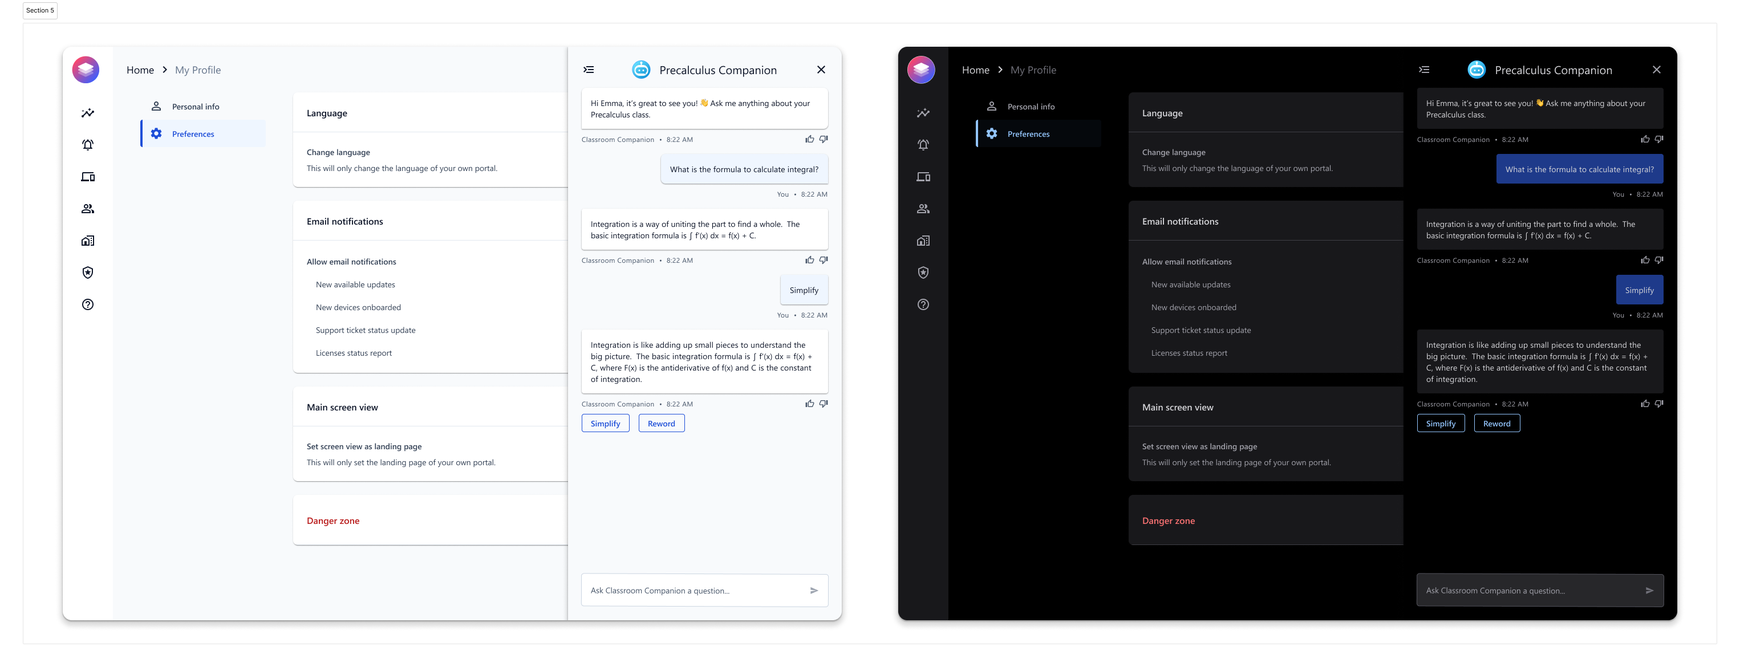
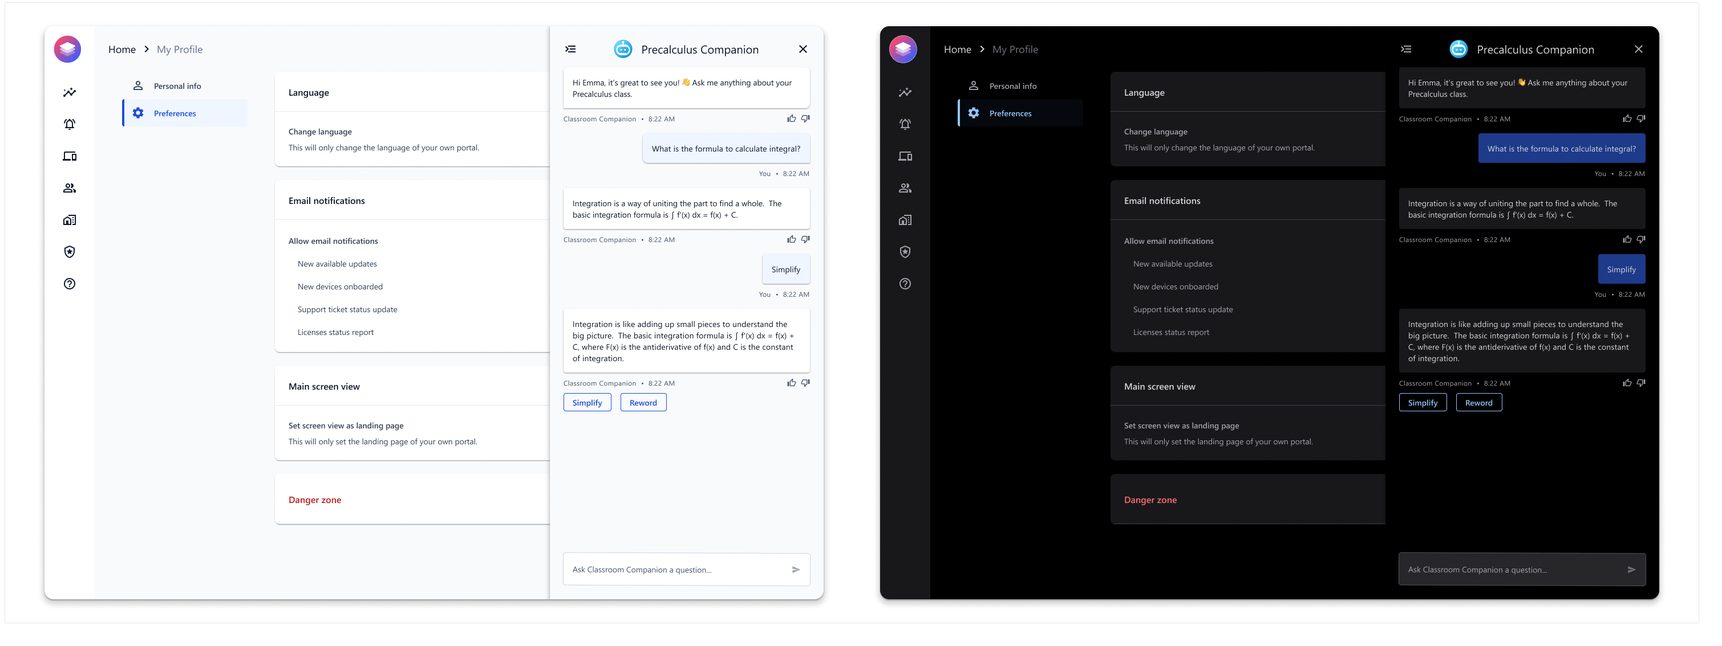
added misc projects

diff --git a/other-projects.html b/other-projects.html
@@ -38,6 +38,7 @@
                 Jump to...
             </button>
             <div class="dropdown-menu dropdown-menu-right">
+                <a class="dropdown-item btn-sm" href="#drassomai">Drassomai</a>
                 <a class="dropdown-item btn-sm" href="#certik">Blockchain analysis</a>
                 <a class="dropdown-item btn-sm" href="#mtlaw">Immigration law</a>
                 <a class="dropdown-item btn-sm" href="#broad">Biomedical research</a>
@@ -48,111 +49,143 @@
         <br>
         <div id="containerfull">
 
+            <a id="drassomai">
+                <div style="padding:5px"></div>
+            </a>
+            <p class="text-5">A personal project, <span style="color:#ec008c">Drassomai</span>.</p><br>
+            <p class="text-1">[March 2024]</p>
+            <div> 
+                <p class="text-3">More info to come soon! Some first visuals:</p>
+                <div data-aos="fade-up" data-aos-offset="20" data-aos-delay="50" data-aos-duration="2000" style="height: auto; position: relative; margin-left: auto; margin-right: auto; margin-top: 10px; margin-bottom: 10px">
+                    <center>
+                        <figure style="margin:0">
+                            <a href="images/misc/d-1.png" target="_blank"><img src="/images/misc/d-1.png" alt="Image could not be loaded." style="width:24%; margin-bottom:0px"></a>
+                            <a href="images/misc/d-2.png" target="_blank"><img src="/images/misc/d-2.png" alt="Image could not be loaded." style="width:24%; margin-bottom:0px"></a>
+                            <a href="images/misc/d-3.png" target="_blank"><img src="/images/misc/d-3.png" alt="Image could not be loaded." style="width:24%; margin-bottom:0px"></a>
+                            <a href="images/misc/d-4.png" target="_blank"><img src="/images/misc/d-4.png" alt="Image could not be loaded." style="width:24%; margin-bottom:0px"></a>
+                            <a href="images/misc/d-5.png" target="_blank"><img src="/images/misc/d-5.png" alt="Image could not be loaded." style="width:24%; margin-bottom:5px"></a>
+                            <a href="images/misc/d-6.png" target="_blank"><img src="/images/misc/d-6.png" alt="Image could not be loaded." style="width:24%; margin-bottom:5px"></a>
+                            <a href="images/misc/d-7.png" target="_blank"><img src="/images/misc/d-7.png" alt="Image could not be loaded." style="width:24%; margin-bottom:5px"></a>
+                            <a href="images/misc/d-8.png" target="_blank"><img src="/images/misc/d-8.png" alt="Image could not be loaded." style="width:24%; margin-bottom:5px"></a>
+                            <figcaption class="text-1"><i>A moodboard.</i></figcaption>
+                        </figure>
+                    </center>
+                </div>
+            </div>
+            <div style="padding:5px"></div>
+
             <a id="certik">
                 <div style="padding:5px"></div>
             </a>
-            <p class="text-5">Building a blockchain analysis tool for <span style="color:#ec008c">CertiK</span></p>
-            <div> Under construction!
-                <!-- <p class="text-3">
-					At Yale, working for the YDN is not an activity — it is a way of living. Our passionate, meticulous, tireless managing editors are at production at least 40 hours a week (a full-time job commitment!) while desk editors linger in the building long past their four-hour nightly shifts to finish up homework and engage in heated debates over the latest controversy in journalism. You'll find signs of life at 202 York St. at all hours, from our staff running in before sunrise to distribute papers, to (alas) Production and Design editors staying past 4 a.m. to ensure the safe delivery of PDF's to our printer in Hartford. And since we're eponymously a <i>daily</i> paper, no editor can ever drop the ball.<br><br>
-					Our dedication shows: last year, we were announced "<a href="https://www.spj.org/moe18.asp" target="_blank"><u>Best All-Around Daily Student Newspaper</u></a>" by the Society of Professional Journalists!
-				</p>
-				<div data-aos="fade-up" data-aos-offset="20" data-aos-delay="50" data-aos-duration="2000" style="width:100%; height: auto; position: relative; margin-left: auto; margin-right: auto; margin-top: 10px; margin-bottom: 10px">
-						<figure style="margin:0">
-							<center>
-								<a href="images/ydn/ydn1.jpg" target="_blank"><img src="/images/ydn/ydn1.jpg" alt="Image could not be loaded." style="width:100%; margin-bottom:5px"></a>
-								<figcaption class="text-1"><i>Our very first production night as editors on the Managing Board of 2021. We sent our 12-page paper to print at 1:25 a.m., a record in YDN's history of first nights! I'm in a yellow sweater in the back. The girl in the beige hoodie on the right is our amazing Editor-in-Chief, Sammy Westfall!</i></figcaption>
-							</center>
-						</figure>
-				</div> -->
+            <p class="text-5">Building a blockchain analysis tool for <span style="color:#ec008c">CertiK</span></p><br>
+            <p class="text-1">[February 2019]</p>
+            <div> 
+                <p class="text-3">As part of a 2-week long externship at CertiK, a NYC blockchain startup, our team of Yale students researched & presented formal verification risks. I was responsible for graphic design on the team.</p>
+                <div data-aos="fade-up" data-aos-offset="20" data-aos-delay="50" data-aos-duration="2000" style="height: auto; position: relative; margin-left: auto; margin-right: auto; margin-top: 10px; margin-bottom: 10px">
+                    <center>
+                        <figure style="margin:0">
+                            <a href="images/certik/graphic1.jpg" target="_blank"><img src="/images/certik/graphic1.jpg" alt="Image could not be loaded." style="width:45%; margin-bottom:0px"></a>
+                            <a href="images/certik/graphic2.jpg" target="_blank"><img src="/images/certik/graphic2.jpg" alt="Image could not be loaded." style="width:45%; margin-bottom:0px"></a>
+                            <a href="images/certik/graphic3.jpg" target="_blank"><img src="/images/certik/graphic3.jpg" alt="Image could not be loaded." style="width:45%; margin-bottom:5px"></a>
+                            <a href="images/certik/graphic4.jpg" target="_blank"><img src="/images/certik/graphic4.jpg" alt="Image could not be loaded." style="width:45%; margin-bottom:5px"></a>
+                            <figcaption class="text-1"><i>An excerpt of our presentation.</i></figcaption>
+                        </figure>
+                    </center>
+                </div>
+                <br><br>
+                <div data-aos="fade-up" data-aos-offset="20" data-aos-delay="50" data-aos-duration="2000" style="height: auto; position: relative; margin-left: auto; margin-right: auto; margin-top: 10px; margin-bottom: 10px">
+                    <center>
+                        <figure style="margin:0">
+                            <a href="images/certik/step1.jpg" target="_blank"><img src="/images/certik/step1.jpg" alt="Image could not be loaded." style="width:24%; margin-bottom:5px"></a>
+                            <a href="images/certik/step2.jpg" target="_blank"><img src="/images/certik/step2.jpg" alt="Image could not be loaded." style="width:24%; margin-bottom:5px"></a>
+                            <a href="images/certik/step3.jpg" target="_blank"><img src="/images/certik/step3.jpg" alt="Image could not be loaded." style="width:24%; margin-bottom:5px"></a>
+                            <a href="images/certik/step4.jpg" target="_blank"><img src="/images/certik/step4.jpg" alt="Image could not be loaded." style="width:24%; margin-bottom:5px"></a>
+                            <figcaption class="text-1"><i>Part of a demo of our risk analysis.</i></figcaption>
+                        </figure>
+                    </center>
+                </div>
             </div>
-
             <div style="padding:5px"></div>
+
             <a id="mtlaw">
                 <hr></a>
             <div style="padding:5px"></div>
 
-            <p class="text-5">Legal writing for <span style="color:#ec008c">MT Law, LLC</span></p>
+            <p class="text-5">Legal writing for <span style="color:#ec008c">MT Law, LLC</span></p><br>
+            <p class="text-1">[May to August 2018]</p>
             <div>
-                Under construction!
-                <!-- <p class="text-3">
-					At Yale, working for the YDN is not an activity — it is a way of living. Our passionate, meticulous, tireless managing editors are at production at least 40 hours a week (a full-time job commitment!) while desk editors linger in the building long past their four-hour nightly shifts to finish up homework and engage in heated debates over the latest controversy in journalism. You'll find signs of life at 202 York St. at all hours, from our staff running in before sunrise to distribute papers, to (alas) Production and Design editors staying past 4 a.m. to ensure the safe delivery of PDF's to our printer in Hartford. And since we're eponymously a <i>daily</i> paper, no editor can ever drop the ball.<br><br>
-					Our dedication shows: last year, we were announced "<a href="https://www.spj.org/moe18.asp" target="_blank"><u>Best All-Around Daily Student Newspaper</u></a>" by the Society of Professional Journalists!
-				</p>
-				<div data-aos="fade-up" data-aos-offset="20" data-aos-delay="50" data-aos-duration="2000" style="width:100%; height: auto; position: relative; margin-left: auto; margin-right: auto; margin-top: 10px; margin-bottom: 10px">
-						<figure style="margin:0">
-							<center>
-								<a href="images/ydn/ydn1.jpg" target="_blank"><img src="/images/ydn/ydn1.jpg" alt="Image could not be loaded." style="width:100%; margin-bottom:5px"></a>
-								<figcaption class="text-1"><i>Our very first production night as editors on the Managing Board of 2021. We sent our 12-page paper to print at 1:25 a.m., a record in YDN's history of first nights! I'm in a yellow sweater in the back. The girl in the beige hoodie on the right is our amazing Editor-in-Chief, Sammy Westfall!</i></figcaption>
-							</center>
-						</figure>
-				</div> -->
+                <p class="text-3">The summer before I started college, I worked as a paralegal at MT Law. I wrote, copy-edited, compiled, and filed immigration petitions to the USCIS.</p>
+                <div data-aos="fade-up" data-aos-offset="20" data-aos-delay="50" data-aos-duration="2000" style="height: auto; position: relative; margin-left: auto; margin-right: auto; margin-top: 10px; margin-bottom: 10px">
+                    <center>
+                        <figure style="margin:0">
+                            <a href="images/mtlaw/petition1.jpg" target="_blank"><img src="/images/mtlaw/petition1.jpg" alt="Image could not be loaded." style="width:45%; margin-bottom:5px"></a>
+                            <a href="images/mtlaw/petition2.jpg" target="_blank"><img src="/images/mtlaw/petition2.jpg" alt="Image could not be loaded." style="width:45%; margin-bottom:5px"></a>
+                            <figcaption class="text-1"><i>A sample of documents I would write and copy-edit. Heavy stuff!</i></figcaption>
+                        </figure>
+                    </center>
+                </div>
             </div>
-
             <div style="padding:5px"></div>
+            
             <a id="broad">
                 <hr></a>
             <div style="padding:5px"></div>
 
-            <p class="text-5">Cancer research at the <span style="color:#ec008c">Broad Institute of Harvard and MIT</span></p>
+            <p class="text-5">Cancer research at the <span style="color:#ec008c">Broad Institute of Harvard and MIT</span></p><br>
+            <p class="text-1">[June to August 2017]</p>
             <div>
-                Under construction!
-                <!-- <p class="text-3">
-					At Yale, working for the YDN is not an activity — it is a way of living. Our passionate, meticulous, tireless managing editors are at production at least 40 hours a week (a full-time job commitment!) while desk editors linger in the building long past their four-hour nightly shifts to finish up homework and engage in heated debates over the latest controversy in journalism. You'll find signs of life at 202 York St. at all hours, from our staff running in before sunrise to distribute papers, to (alas) Production and Design editors staying past 4 a.m. to ensure the safe delivery of PDF's to our printer in Hartford. And since we're eponymously a <i>daily</i> paper, no editor can ever drop the ball.<br><br>
-					Our dedication shows: last year, we were announced "<a href="https://www.spj.org/moe18.asp" target="_blank"><u>Best All-Around Daily Student Newspaper</u></a>" by the Society of Professional Journalists!
-				</p>
-				<div data-aos="fade-up" data-aos-offset="20" data-aos-delay="50" data-aos-duration="2000" style="width:100%; height: auto; position: relative; margin-left: auto; margin-right: auto; margin-top: 10px; margin-bottom: 10px">
-						<figure style="margin:0">
-							<center>
-								<a href="images/ydn/ydn1.jpg" target="_blank"><img src="/images/ydn/ydn1.jpg" alt="Image could not be loaded." style="width:100%; margin-bottom:5px"></a>
-								<figcaption class="text-1"><i>Our very first production night as editors on the Managing Board of 2021. We sent our 12-page paper to print at 1:25 a.m., a record in YDN's history of first nights! I'm in a yellow sweater in the back. The girl in the beige hoodie on the right is our amazing Editor-in-Chief, Sammy Westfall!</i></figcaption>
-							</center>
-						</figure>
-				</div> -->
+                <p class="text-3">In junior year of high school, I was lucky enough to be a research assistant at the Broad Institute. I worked in Aviv Regev's lab on novel methods in ribosome profiling, where two-thirds of my time was spent in a wet lab under the mentorship of Dr. Tamara Ouspenskaia, while the other third was spent learning command-line tools. This was my very first exposure to Terminal & Bash!
+                    <br><br>
+                    Working at the Broad was such a privilege. I often took elevators to work with CRISPR greats like Feng Zheng. As the CRISPR-Cas9 gene editing protocol was rather new in 2017, this was the most exciting thing that could happen to my little biotech brain.
+                    <br><br>
+                    As a culmination of my work, I presented my research in a scientific symposium at the Broad Institute and I wrote a 15-pg academic paper for the Siemens Competition.
+                </p>
+                <div data-aos="fade-up" data-aos-offset="20" data-aos-delay="50" data-aos-duration="2000" style="height: auto; position: relative; margin-left: auto; margin-right: auto; margin-top: 10px; margin-bottom: 10px">
+                    <center>
+                        <figure style="margin:0">
+                            <a href="images/broad/poster.jpg" target="_blank"><img src="/images/broad/poster.jpg" alt="Image could not be loaded." style="width:75%; margin-bottom:5px"></a>
+                            <figcaption class="text-1"><i>The final work. As I was already proficient in Adobe Illustrator, that is what I made this poster in. Dr. Ouspenskaia was so impressed that she asked if I could make visualizations for her research paper submission too!</i></figcaption>
+                        </figure>
+                    </center>
+                </div>
             </div>
-
             <div style="padding:5px"></div>
+
             <a id="stc">
                 <hr></a>
             <div style="padding:5px"></div>
 
-            <p class="text-5">Managing Media Techs for the <span style="color:#ec008c">Student Technology Collaborative</span> at Yale</p>
+            <p class="text-5">Managing Media Techs for the <span style="color:#ec008c">Student Technology Collaborative</span> at Yale</p><br>
+            <p class="text-1">[October 2018 to April 2020]</p>
             <div>
-                Under construction!
-                <!-- <p class="text-3">
-					At Yale, working for the YDN is not an activity — it is a way of living. Our passionate, meticulous, tireless managing editors are at production at least 40 hours a week (a full-time job commitment!) while desk editors linger in the building long past their four-hour nightly shifts to finish up homework and engage in heated debates over the latest controversy in journalism. You'll find signs of life at 202 York St. at all hours, from our staff running in before sunrise to distribute papers, to (alas) Production and Design editors staying past 4 a.m. to ensure the safe delivery of PDF's to our printer in Hartford. And since we're eponymously a <i>daily</i> paper, no editor can ever drop the ball.<br><br>
-					Our dedication shows: last year, we were announced "<a href="https://www.spj.org/moe18.asp" target="_blank"><u>Best All-Around Daily Student Newspaper</u></a>" by the Society of Professional Journalists!
-				</p>
-				<div data-aos="fade-up" data-aos-offset="20" data-aos-delay="50" data-aos-duration="2000" style="width:100%; height: auto; position: relative; margin-left: auto; margin-right: auto; margin-top: 10px; margin-bottom: 10px">
-						<figure style="margin:0">
-							<center>
-								<a href="images/ydn/ydn1.jpg" target="_blank"><img src="/images/ydn/ydn1.jpg" alt="Image could not be loaded." style="width:100%; margin-bottom:5px"></a>
-								<figcaption class="text-1"><i>Our very first production night as editors on the Managing Board of 2021. We sent our 12-page paper to print at 1:25 a.m., a record in YDN's history of first nights! I'm in a yellow sweater in the back. The girl in the beige hoodie on the right is our amazing Editor-in-Chief, Sammy Westfall!</i></figcaption>
-							</center>
-						</figure>
-				</div> -->
+                <p class="text-3">I had a short stint managing Media Techs for Yale STC. This was my first paid campus job, which I took in freshman year, and my job consisted mostly of creating infographic posters for how to use our rentable media equipment. Later, when I became a manager in my second year, I also rehauled the communication system of the team in an effort to streamline productivity.</p>
+                <div data-aos="fade-up" data-aos-offset="20" data-aos-delay="50" data-aos-duration="2000" style="height: auto; position: relative; margin-left: auto; margin-right: auto; margin-top: 10px; margin-bottom: 10px">
+                    <center>
+                        <figure style="margin:0">
+                            <a href="images/stc/poster.jpg" target="_blank"><img src="/images/stc/poster.jpg" alt="Image could not be loaded." style="width:55%; margin-bottom:5px"></a>
+                            <figcaption class="text-1"><i>I took this opportunity to practice using the pen tool on Adobe Illustrator.</i></figcaption>
+                        </figure>
+                    </center>
+                </div>
             </div>
-
             <div style="padding:5px"></div>
+            
             <a id="fun">
                 <hr></a>
             <div style="padding:5px"></div>
 
             <p class="text-5">Stuff I did for <span style="color:#ec008c">fun</span></p>
-            <div> Under construction!
-                <!-- <p class="text-3">
-					At Yale, working for the YDN is not an activity — it is a way of living. Our passionate, meticulous, tireless managing editors are at production at least 40 hours a week (a full-time job commitment!) while desk editors linger in the building long past their four-hour nightly shifts to finish up homework and engage in heated debates over the latest controversy in journalism. You'll find signs of life at 202 York St. at all hours, from our staff running in before sunrise to distribute papers, to (alas) Production and Design editors staying past 4 a.m. to ensure the safe delivery of PDF's to our printer in Hartford. And since we're eponymously a <i>daily</i> paper, no editor can ever drop the ball.<br><br>
-					Our dedication shows: last year, we were announced "<a href="https://www.spj.org/moe18.asp" target="_blank"><u>Best All-Around Daily Student Newspaper</u></a>" by the Society of Professional Journalists!
-				</p>
-				<div data-aos="fade-up" data-aos-offset="20" data-aos-delay="50" data-aos-duration="2000" style="width:100%; height: auto; position: relative; margin-left: auto; margin-right: auto; margin-top: 10px; margin-bottom: 10px">
-						<figure style="margin:0">
-							<center>
-								<a href="images/ydn/ydn1.jpg" target="_blank"><img src="/images/ydn/ydn1.jpg" alt="Image could not be loaded." style="width:100%; margin-bottom:5px"></a>
-								<figcaption class="text-1"><i>Our very first production night as editors on the Managing Board of 2021. We sent our 12-page paper to print at 1:25 a.m., a record in YDN's history of first nights! I'm in a yellow sweater in the back. The girl in the beige hoodie on the right is our amazing Editor-in-Chief, Sammy Westfall!</i></figcaption>
-							</center>
-						</figure>
-				</div>
-			</div> -->
+            <div>
+                <p class="text-3">In junior year, I won the t-shirt design competition for the computer science department at Yale. It was pretty interesting seeing my professors wearing my shirt. To this day, I still notice my friends wearing this shirt when we hang out. Sometimes, I'll even see a stranger on public transport wearing it. This shirt made a much larger splash than I anticipated... I guess it's true that there are a couple thousand copies out there. Funnily enough, I've lost my own.</p>
+                <div data-aos="fade-up" data-aos-offset="20" data-aos-delay="50" data-aos-duration="2000" style="height: auto; position: relative; margin-left: auto; margin-right: auto; margin-top: 10px; margin-bottom: 10px">
+                    <center>
+                        <figure style="margin:0">
+                            <a href="images/misc/shirt-front.jpg" target="_blank"><img src="images/misc/shirt-front.jpg" alt="Image could not be loaded." style="width:45%; margin-bottom:5px"></a>
+                            <a href="images/misc/shirt-back.jpg" target="_blank"><img src="images/misc/shirt-back.jpg" alt="Image could not be loaded." style="width:45%; margin-bottom:5px"></a>
+                            <figcaption class="text-1"><i>A sample of documents I would write and copy-edit. Heavy stuff!</i></figcaption>
+                        </figure>
+                    </center>
+                </div>
             </div>
 		</div>
         <button onclick="topFunction()" id="myBtn" title="Go to top">Top</button>

diff --git a/lenovo.html b/lenovo.html
@@ -236,15 +236,15 @@
                 <div style="padding:5px"></div>
             </a>
             <p class="text-5">2024 update: Now baking... Red Velvet!</p>
-            <div data-aos="fade-up" data-aos-offset="20" data-aos-delay="50" data-aos-duration="2000" style="height: auto; position: relative; margin-left: auto; margin-right: auto; margin-top: 10px; margin-bottom: 10px">
-                <center>
-                    <figure style="margin:0">
-                        <a href="images/lenovo/rv-cover.png" target="_blank"><img src="/images/lenovo/rv-cover.png" alt="Image could not be loaded." style="width:58%; margin-bottom:5px"></a>
-                    </figure>
-                </center>
-            </div>
             <p class="text-3">
                 As of October 2023, I have been working on developing my very own sub-system of Cake, called Red Velvet.
+                <div data-aos="fade-up" data-aos-offset="20" data-aos-delay="50" data-aos-duration="2000" style="height: auto; position: relative; margin-left: auto; margin-right: auto; margin-top: 10px; margin-bottom: 10px">
+                    <center>
+                        <figure style="margin:0">
+                            <a href="images/lenovo/rv-cover.png" target="_blank"><img src="/images/lenovo/rv-cover.png" alt="Image could not be loaded." style="width:48%; margin-bottom:5px"></a>
+                        </figure>
+                    </center>
+                </div>
                 <div data-aos="fade-up" data-aos-offset="20" data-aos-delay="50" data-aos-duration="2000" style="height: auto; position: relative; margin-left: auto; margin-right: auto; margin-top: 10px; margin-bottom: 10px">
                     <center>
                         <figure style="margin:0">
@@ -261,13 +261,13 @@
                 Red Velvet uses the foundational tokens of Cake (hence why it's a "sub-system") — but owns a totally fresh set of components & variants, since it is geared toward B2B cloud-based apps, such as <a href="https://www.lenovo.com/us/en/software/lenovo-device-manager/" target="_blank">Lenovo Device Manager</a>. These apps, while being more commercial-facing, could still use a consumer-friendly design rehaul.
                 <br><br>
                 One of the great things about designing a sub-system that relies on the Cake tokens I architected previously is that dark mode is essentially built into the components. This is super handy, as Microsoft is pushing for dark mode as an accessibility requirement for applications in 2025.
-                <br>
+                <br><br>
             </p>
             <div data-aos="fade-up" data-aos-offset="20" data-aos-delay="50" data-aos-duration="2000" style="height: auto; position: relative; margin-left: auto; margin-right: auto; margin-top: 10px; margin-bottom: 10px">
                 <center>
                     <figure style="margin:0">
-                        <a href="images/lenovo/rv-cal-light.png" target="_blank"><img src="/images/lenovo/rv-cal-light.png" alt="Image could not be loaded." style="width:49%; margin-bottom:5px"></a>
-                        <a href="images/lenovo/rv-cal-dark.png" target="_blank"><img src="/images/lenovo/rv-cal-dark.png" alt="Image could not be loaded." style="width:49%; margin-bottom:5px"></a>
+                        <a href="images/lenovo/rv-cal-light.png" target="_blank"><img src="/images/lenovo/rv-cal-light.png" alt="Image could not be loaded." style="width:45%; margin-bottom:5px"></a>
+                        <a href="images/lenovo/rv-cal-dark.png" target="_blank"><img src="/images/lenovo/rv-cal-dark.png" alt="Image could not be loaded." style="width:45%; margin-bottom:5px"></a>
                         <figcaption class="text-1"><i>Here's the date/time picker up close. The component may be original, but its dependency on Cake color & type tokens means that it inherits theming as well!</i></figcaption>
                     </figure>
                 </center>
@@ -288,9 +288,9 @@
                 <div style="padding:5px"></div>
             </a>
             <p class="text-5">Red Velvet use case 1: Lenovo Device Manager</p>
-            <br><br>
             <p class="text-3">
                 One of my first applications of Red Velvet was testing a redesign of Lenovo Device Manager, one of the most popular B2B cloud apps that Lenovo offers. LDM offers IT admin a "quick-glance" method of surveying fleet health, with options to telescope into details at any level.
+                <br><br>
             </p>
             <div data-aos="fade-up" data-aos-offset="20" data-aos-delay="50" data-aos-duration="2000" style="height: auto; position: relative; margin-left: auto; margin-right: auto; margin-top: 10px; margin-bottom: 10px">
                 <center>
@@ -304,9 +304,9 @@
             <div data-aos="fade-up" data-aos-offset="20" data-aos-delay="50" data-aos-duration="2000" style="height: auto; position: relative; margin-left: auto; margin-right: auto; margin-top: 10px; margin-bottom: 10px">
                 <center>
                     <figure style="margin:0">
-                        <a href="images/lenovo/ldm-table-light.png" target="_blank"><img src="/images/lenovo/ldm-table-light.png" alt="Image could not be loaded." style="width:92%; margin-bottom:5px"></a>
+                        <a href="images/lenovo/ldm-table-light.png" target="_blank"><img src="/images/lenovo/ldm-table-light.png" alt="Image could not be loaded." style="width:92%; margin-bottom:0px"></a>
                         <a href="images/lenovo/ldm-table-dark.png" target="_blank"><img src="/images/lenovo/ldm-table-dark.png" alt="Image could not be loaded." style="width:92%; margin-bottom:5px"></a>
-                        <figcaption class="text-1"><i>The main view of LDM is this device list. Since Cake has not yet met an application that requires lots of data visualization, I made these table templates from scratch for Red Velvet. Enhanced tags and chips provide information-at-a-glance, and opacity-based backgrounds help handle table row background variation. And, although Red Velvet uses squared buttons for a more tabular view, it retains the general modularity and card-based elevation schema of Cake templates for "One Lenovo" consistency.</i></figcaption>
+                        <figcaption class="text-1"><i>The main view of LDM is this device list. Since Cake has not yet met an application that requires lots of data visualization, I made these table templates from scratch for Red Velvet. Enhanced tags and chips provide information-at-a-glance, and opacity-based backgrounds help handle table row background variation. And, although Red Velvet uses squared buttons for a more tabular view, it retains the general modularity and card-based elevation schematic of Cake templates for "One Lenovo" consistency.</i></figcaption>
                     </figure>
                 </center>
             </div>
@@ -314,8 +314,8 @@
             <div data-aos="fade-up" data-aos-offset="20" data-aos-delay="50" data-aos-duration="2000" style="height: auto; position: relative; margin-left: auto; margin-right: auto; margin-top: 10px; margin-bottom: 10px">
                 <center>
                     <figure style="margin:0">
-                        <a href="images/lenovo/ldm-profile-light.png" target="_blank"><img src="/images/lenovo/ldm-profile-light.png" alt="Image could not be loaded." style="width:89%; margin-bottom:5px"></a>
-                        <a href="images/lenovo/ldm-profile-dark.png" target="_blank"><img src="/images/lenovo/ldm-profile-dark.png" alt="Image could not be loaded." style="width:89%; margin-bottom:5px"></a>
+                        <a href="images/lenovo/ldm-profile-light.png" target="_blank"><img src="/images/lenovo/ldm-profile-light.png" alt="Image could not be loaded." style="width:92%; margin-bottom:0px"></a>
+                        <a href="images/lenovo/ldm-profile-dark.png" target="_blank"><img src="/images/lenovo/ldm-profile-dark.png" alt="Image could not be loaded." style="width:92%; margin-bottom:5px"></a>
                         <figcaption class="text-1"><i>LDM also has a profile section. The user information section needed to be made from scratch, but I was able to borrow some of my past work with the Vantage app to lay out the settings pages.</i></figcaption>
                     </figure>
                 </center>
@@ -332,13 +332,13 @@
             </div>
             <br><br>
             <p class="text-3">
-                You can really tell from this comparison how badly the design refresh was needed. Plus, we were able to add a dark mode in a snap!
+                You can really tell from this side-by-side comparison how badly the design refresh was needed. Plus, we were able to add a dark mode in a snap!
+                <br><br>
             </p>
             <div data-aos="fade-up" data-aos-offset="20" data-aos-delay="50" data-aos-duration="2000" style="height: auto; position: relative; margin-left: auto; margin-right: auto; margin-top: 10px; margin-bottom: 10px">
                 <center>
                     <figure style="margin:0">
                         <a href="images/lenovo/ldm-compare.png" target="_blank"><img src="/images/lenovo/ldm-compare.png" alt="Image could not be loaded." style="width:99%; margin-bottom:5px"></a>
-                        <figcaption class="text-1"><i>And here are some associated modals.</i></figcaption>
                     </figure>
                 </center>
             </div>
@@ -348,7 +348,6 @@
                 <div style="padding:5px"></div>
             </a>
             <p class="text-5">Red Velvet use case 2: Classroom Companion</p>
-            <br><br>
             <p class="text-3">
                 A few weeks after my work with LDM, the Classroom Companion team at Lenovo reached out to me asking for some help with a rebrand as well. Their case was pretty unique, as their app is not only consumer-facing but student-facing, which has its own set of design challenges. They named a few PO requirements to me, such as promoting a chatbot view, which was intended to aid students as they listened to online course recordings. This chatbot was silo'ed into each course; the "Precalculus Companion" could not answer questions about Biology, for instance, and they wanted to make this clear visually.
                 <br><br>
@@ -357,15 +356,15 @@
             <div data-aos="fade-up" data-aos-offset="20" data-aos-delay="50" data-aos-duration="2000" style="height: auto; position: relative; margin-left: auto; margin-right: auto; margin-top: 10px; margin-bottom: 10px">
                 <center>
                     <figure style="margin:0">
-                        <a href="images/lenovo/student-chatbot.png" target="_blank"><img src="/images/lenovo/student-chatbot.png" alt="Image could not be loaded." style="width:85%; margin-bottom:5px"></a>
-                        <figcaption class="text-1"><i>I used the four references on the right to create the chatbot component on the left. The leftmost reference image was a mockup given to me by the Classroom Companion team.</i></figcaption>
+                        <a href="images/lenovo/student-chatbot.png" target="_blank"><img src="/images/lenovo/student-chatbot.png" alt="Image could not be loaded." style="width:96%; margin-bottom:5px"></a>
+                        <figcaption class="text-1"><i>I used the four references on the left to create the chatbot component on the right. The leftmost reference image was a mockup given to me by the Classroom Companion team.</i></figcaption>
                     </figure>
                 </center>
             </div>
             <div data-aos="fade-up" data-aos-offset="20" data-aos-delay="50" data-aos-duration="2000" style="height: auto; position: relative; margin-left: auto; margin-right: auto; margin-top: 10px; margin-bottom: 10px">
                 <center>
                     <figure style="margin:0">
-                        <a href="images/lenovo/student-chatbot-2.png" target="_blank"><img src="/images/lenovo/student-chatbot-2.png" alt="Image could not be loaded." style="width:75%; margin-bottom:5px"></a>
+                        <a href="images/lenovo/student-chatbot-2.png" target="_blank"><img src="/images/lenovo/student-chatbot-2.png" alt="Image could not be loaded." style="width:90%; margin-bottom:5px"></a>
                         <figcaption class="text-1"><i>You can see that my chatbot component integrates seamlessly into Red Velvet spreads, in both light and dark mode. I renamed the companion to "Precalculus Companion" to show even more clearly that the chatbot is silo'ed. Of course, that heading will be replaced for future applications of the chatbot component outside of Classroom Companion.</i></figcaption>
                     </figure>
                 </center>

diff --git a/index.html b/index.html
@@ -47,7 +47,7 @@
                     <br><br>
                     <b>Second, I am passionate about efficient communication in product design.</b> As a UX designer at Lenovo, when I redesign apps like <a href="http://christieyu.com/lenovo" target="_blank">Vantage</a>, which has over 3.3 million daily usership, I’m not just repainting it with different colors; I am actively optimizing the minutia of interactions people have to go through daily. Can I cut out the middle man? Are our flows bloated? And, it's critical to me that I not lose sight of the forest for the trees. I have felt most constructive when successfully championing real user enjoyment of a product over a bottom line, using data-driven evidence. User experience pays for itself! When I was part of the tech incubation team at <a href="http://christieyu.com/mskcc" target="_blank">Memoral Sloan Kettering Cancer Center</a>, I transitioned their entire patient survey base, with over 180k users and 1.5 million entries, into intelligent conversational format using IBM Watson. During that process, I thought very deeply about the actual "value add" of an AI personality to our company mission — allowing the tool to really advocate for <i>itself</i> in C-suite meetings.
                     <br><br>
-                    <b>Third, I really enjoy explaining things to people well.</b> In summer of 2020, I put together a fundraising project called <a href="https://srsc2020.wordpress.com/" target="_blank">Summer Reading Series with Christie</a>, where I taught 70+ middle and high school students advanced college-level English readings for charity (we raised $26,000+ after a generous 5x match from CARE!). In the Yale Daily News production room, I put together clarifying visuals for articles in a snap each night. At MSKCC, I must have created more than 10 slide decks of 50+ slides explaining things to audiences from my fellow interns to C-suite executives. And for three years I taught <a href="http://christieyu.com/cs50" target="_blank">CS50</a> (Introductory CS) to hundreds of people at Yale, including graduate students much older than me. I think if you really understand something, you should have no problem explaining it to people from all walks of life. That lesson was instilled in me all the way back in high school, when I explained novel methods in <a href="https://raw.githubusercontent.com/christieyu/christieyu.github.io/master/images/broad/poster.jpg" target="_blank">mRNA ribosome profiling</a> to post-docs at a research symposium, curious college interviewers, and even my parents, who don't speak English!
+                    <b>Third, I really enjoy explaining things to people well.</b> In summer of 2020, I put together a fundraising project called <a href="https://srsc2020.wordpress.com/" target="_blank">Summer Reading Series with Christie</a>, where I taught 70+ middle and high school students advanced college-level English readings for charity (we raised $26,000+ after a generous 5x match from CARE!). In the Yale Daily News production room, I put together clarifying visuals for articles in a snap each night. At MSKCC, I must have created more than 10 slide decks of 50+ slides explaining things to audiences from my fellow interns to C-suite executives. And for three years I taught <a href="http://christieyu.com/cs50" target="_blank">CS50</a> (Introductory CS) to hundreds of people at Yale, including graduate students much older than me. I think if you really understand something, you should have no problem explaining it to people from all walks of life. That lesson was instilled in me all the way back in high school, when I explained novel methods in <a href="https://christieyu.com/other-projects#broad" target="_blank">mRNA ribosome profiling</a> to post-docs at a research symposium, curious college interviewers, and even my parents, who don't speak English!
                     <br><br>
                     Through these experiences, I’ve thought a lot about what I want to do in life — not just big milestones I want to achieve, but how I want to live my life each day. I want to talk to many people and meet many people every single day. I want to make beautiful, well-designed products that people genuinely like. Whenever I learn something important and interesting, I want to explain it to people in a way that gets them excited and passionate too.
                     <br><br>

diff --git a/yale-daily-news.html b/yale-daily-news.html
@@ -160,6 +160,22 @@
                     <p class="text-3">
                         I can't wait to launch these projects with my fellow editors, since, with talent from Photo, Video, Podcast, Design, Data, and newsroom desks, we'll be able to plan, timeline, oversee, and delegate many long-form and multimedia journalism content that the YDN desperately needs. With new tools such as <span style="color:#ec008c">Adobe Spark, Adobe XD, Buffer social media CMS, Wordpress, Microsoft Teams, and Trello</span> at our fingertips, our team is ready to tackle the multimedia challenges YDN has been too overloaded to devote time to yet. And, as returning editors, we'll be able to advise incoming editors on how to navigate these peculiar journalistic times and guide tough ethical and operational decisions.<br><br>
                     </p>
+                    <div data-aos="fade-up" data-aos-offset="20" data-aos-delay="50" data-aos-duration="2000" style="height: auto; position: relative; margin-left: auto; margin-right: auto; margin-top: 10px; margin-bottom: 10px">
+                        <center>
+                            <figure style="margin:0">
+                                <a href="images/ydn/ydn-digital-1.jpg" target="_blank"><img src="images/ydn/ydn-digital-1.jpg" alt="Image could not be loaded." style="width:32%; margin-bottom:0px"></a>
+                                <a href="images/ydn/ydn-digital-2.jpg" target="_blank"><img src="images/ydn/ydn-digital-2.jpg" alt="Image could not be loaded." style="width:32%; margin-bottom:0px"></a>
+                                <a href="images/ydn/ydn-digital-3.jpg" target="_blank"><img src="images/ydn/ydn-digital-3.jpg" alt="Image could not be loaded." style="width:32%; margin-bottom:0px"></a>
+                                <a href="images/ydn/ydn-digital-4.jpg" target="_blank"><img src="images/ydn/ydn-digital-4.jpg" alt="Image could not be loaded." style="width:32%; margin-bottom:0px"></a>
+                                <a href="images/ydn/ydn-digital-5.jpg" target="_blank"><img src="images/ydn/ydn-digital-5.jpg" alt="Image could not be loaded." style="width:32%; margin-bottom:0px"></a>
+                                <a href="images/ydn/ydn-digital-6.jpg" target="_blank"><img src="images/ydn/ydn-digital-6.jpg" alt="Image could not be loaded." style="width:32%; margin-bottom:0px"></a>
+                                <a href="images/ydn/ydn-digital-7.jpg" target="_blank"><img src="images/ydn/ydn-digital-7.jpg" alt="Image could not be loaded." style="width:32%; margin-bottom:5px"></a>
+                                <a href="images/ydn/ydn-digital-8.jpg" target="_blank"><img src="images/ydn/ydn-digital-8.jpg" alt="Image could not be loaded." style="width:32%; margin-bottom:5px"></a>
+                                <a href="images/ydn/ydn-digital-9.jpg" target="_blank"><img src="images/ydn/ydn-digital-9.jpg" alt="Image could not be loaded." style="width:32%; margin-bottom:5px"></a>
+                                <figcaption class="text-1"><i>Some of the Instagram posts from our rebrand. These snippets from our daily paper rewarded us with 5x engagement and 5000 new followers in just a few months.</i></figcaption>
+                            </figure>
+                        </center>
+                    </div>
                 </div>
             </div>
 		</div>
